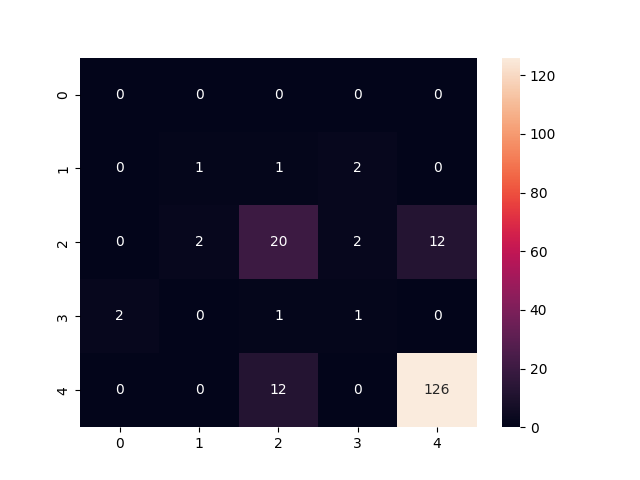
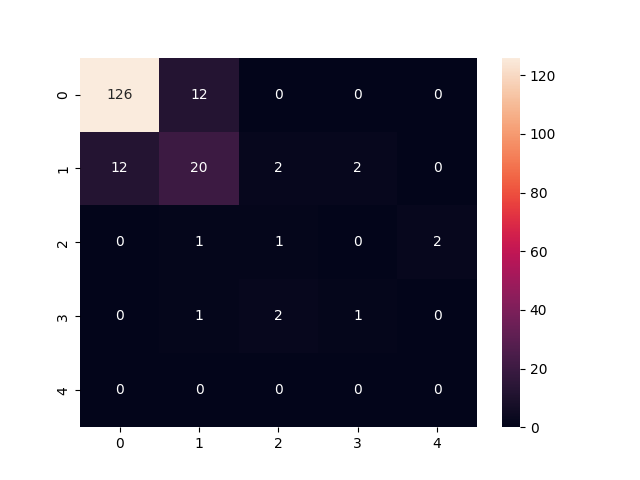
master : edit the vaisualization for confusion mastrix

diff --git a/part2/classificationCoronaCases.py b/part2/classificationCoronaCases.py
@@ -9,7 +9,7 @@ from sklearn.decomposition import PCA
 from sklearn.neighbors import KNeighborsClassifier
 from sklearn.metrics import confusion_matrix
 from sklearn.preprocessing import StandardScaler
-
+import numpy as np
 scaler = StandardScaler()
 
 features = trainingDataCleaned.iloc[:, [5, 8, 9]]
@@ -39,8 +39,7 @@ neigh = KNeighborsClassifier(n_neighbors=5)
 X_train, X_test, y_train, y_test = train_test_split(features_scaled, coronaCases_transformed_categories, test_size=0.3, random_state=0)
 neigh.fit(X_train, y_train)
 print("The accuracy for KNN calssifier using cross validation", cross_val_score(neigh, features_scaled, coronaCases_transformed_categories, cv=5).mean())
-cm = confusion_matrix(neigh.predict(features_scaled), coronaCases_transformed_categories)
+cm = confusion_matrix(neigh.predict(features_scaled), coronaCases_transformed_categories, labels=labels)
 print("The accuracy for KNN classifier using confusion matrix", neigh.score(X_test, y_test))
 sns.heatmap(cm, annot=True, fmt='d')
 plt.show()
-
